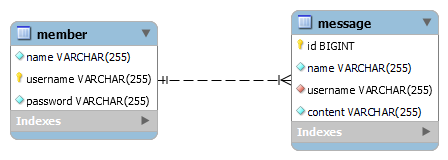
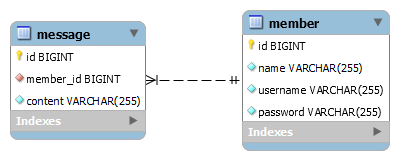
correct cookie which is only record user id now

diff --git a/week6/templates/member.html b/week6/templates/member.html
@@ -21,7 +21,7 @@
     <main>
       <!-- 歡迎登入系統語句 -->
       <section class="main">
-        <p>{{message}}</p>
+        <p>{{name}}</p>
         <p><a href="{{signout_url}}">{{logout}}</a></p>
       </section>
       <hr />

diff --git a/week6/main.py b/week6/main.py
@@ -42,10 +42,9 @@ async def signup(signupName: str = Form(default=None), signupUsername: str = For
 @app.post("/signin")
 async def signin(response: Response, username: str = Form(default=None), password: str = Form(default=None)):
     if (check_user(username, password)):
-        [id, name] = check_user(username, password)
-        print("id=" + str(id) + "name=" + str(name))
+        id = check_user(username, password)
         response = RedirectResponse(url="/member",  status_code=status.HTTP_303_SEE_OTHER)
-        token = make_signed_cookie_token(id, name)
+        token = make_signed_cookie_token(id)
         response.set_cookie(key="cookie_token", value=token.decode('utf-8'), max_age=3600)
         return response
     else:
@@ -56,6 +55,8 @@ async def signin(response: Response, username: str = Form(default=None), passwor
 async def show_member_page(request: Request, cookie_token: str = Cookie(default=None)):
     if (cookie_token != None):
         user_info = unsigned_cookie_token(cookie_token.encode())
+
+        # get messaage information
         mycursor.execute("SELECT message.id, message.content, member.id, member.name FROM message JOIN member ON message.member_id = member.id ORDER BY message.id")
         all_messages = mycursor.fetchall()
         print(all_messages)
@@ -67,7 +68,12 @@ async def show_member_page(request: Request, cookie_token: str = Cookie(default=
             else:
                 info[2] = False
             process_messages.append(info)
-        context = {"header": "這裡是會員頁面", "message": user_info["name"] + "，歡迎登入系統", "signout_url": "/signout", "logout": "登出系統", "board": process_messages}
+
+        # get name
+        mycursor.execute("SELECT name FROM member WHERE id = %s", (user_info["id"],))
+        name = mycursor.fetchone()[0]
+
+        context = {"header": "這裡是會員頁面", "name": name + "，歡迎登入系統", "signout_url": "/signout", "logout": "登出系統", "board": process_messages}
         return templates.TemplateResponse(request=request, name="member.html", context=context)
     else:
         return RedirectResponse(url="/") 
@@ -123,14 +129,14 @@ def check_user(username, password=None):
         if username == member[2] and password == None:
             return True
         elif username == member[2] and password == member[3]:
-            return [member[0],member[1]]
+            return member[0]
     return False
 
 SECRET_KEY = "mysterymysterymystery"
 signer = Signer(SECRET_KEY)
 
-def make_signed_cookie_token(id, name):
-    cookie = {"id": id, "name": name}
+def make_signed_cookie_token(id):
+    cookie = {"id": id}
     flatten_cookie = json.dumps(cookie).encode('utf-8')
     signed_cookie = signer.sign(flatten_cookie)
     return signed_cookie

diff --git a/week6/Readme.md b/week6/Readme.md
@@ -4,7 +4,7 @@
 
 ### user status part
 
-1. user status are recorded by signed cookie-base session (all of information are set at signed cookie), name is cookie-token
+1. user status(user id) are recorded by signed cookie-base session (all of information are set at signed cookie), name is cookie-token
 2. signer: python package "itsdangerous"
 3. if cookie was modified, return error message
 
